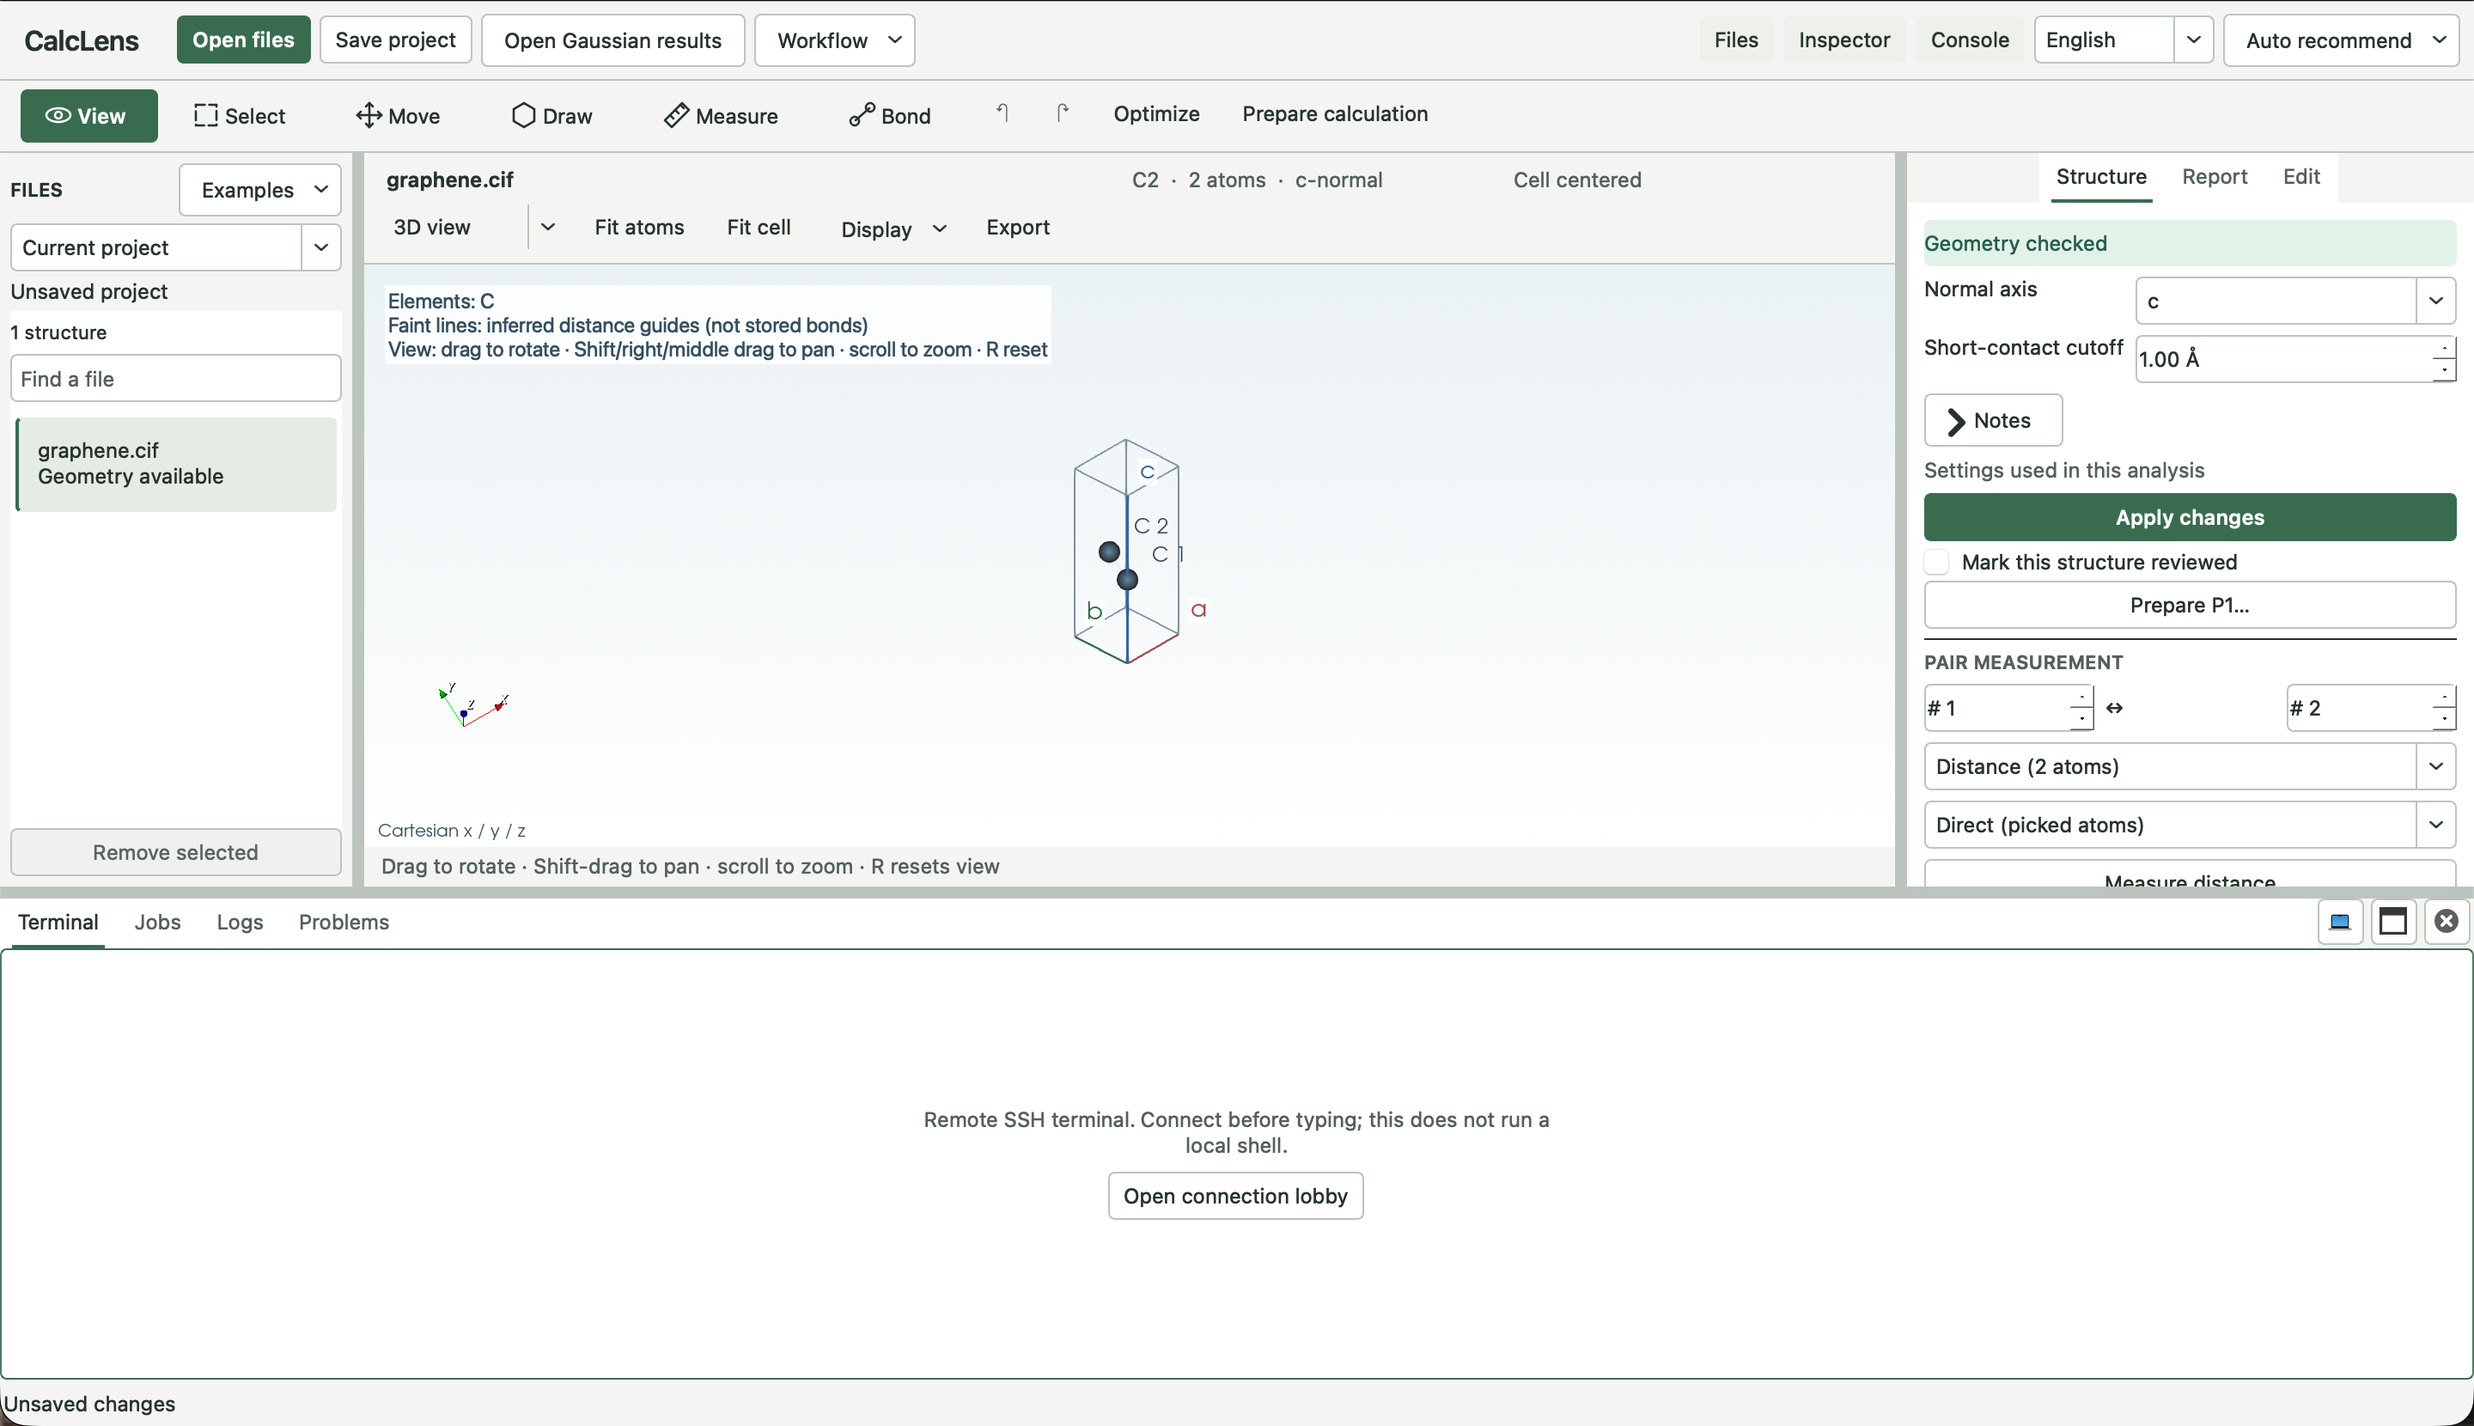
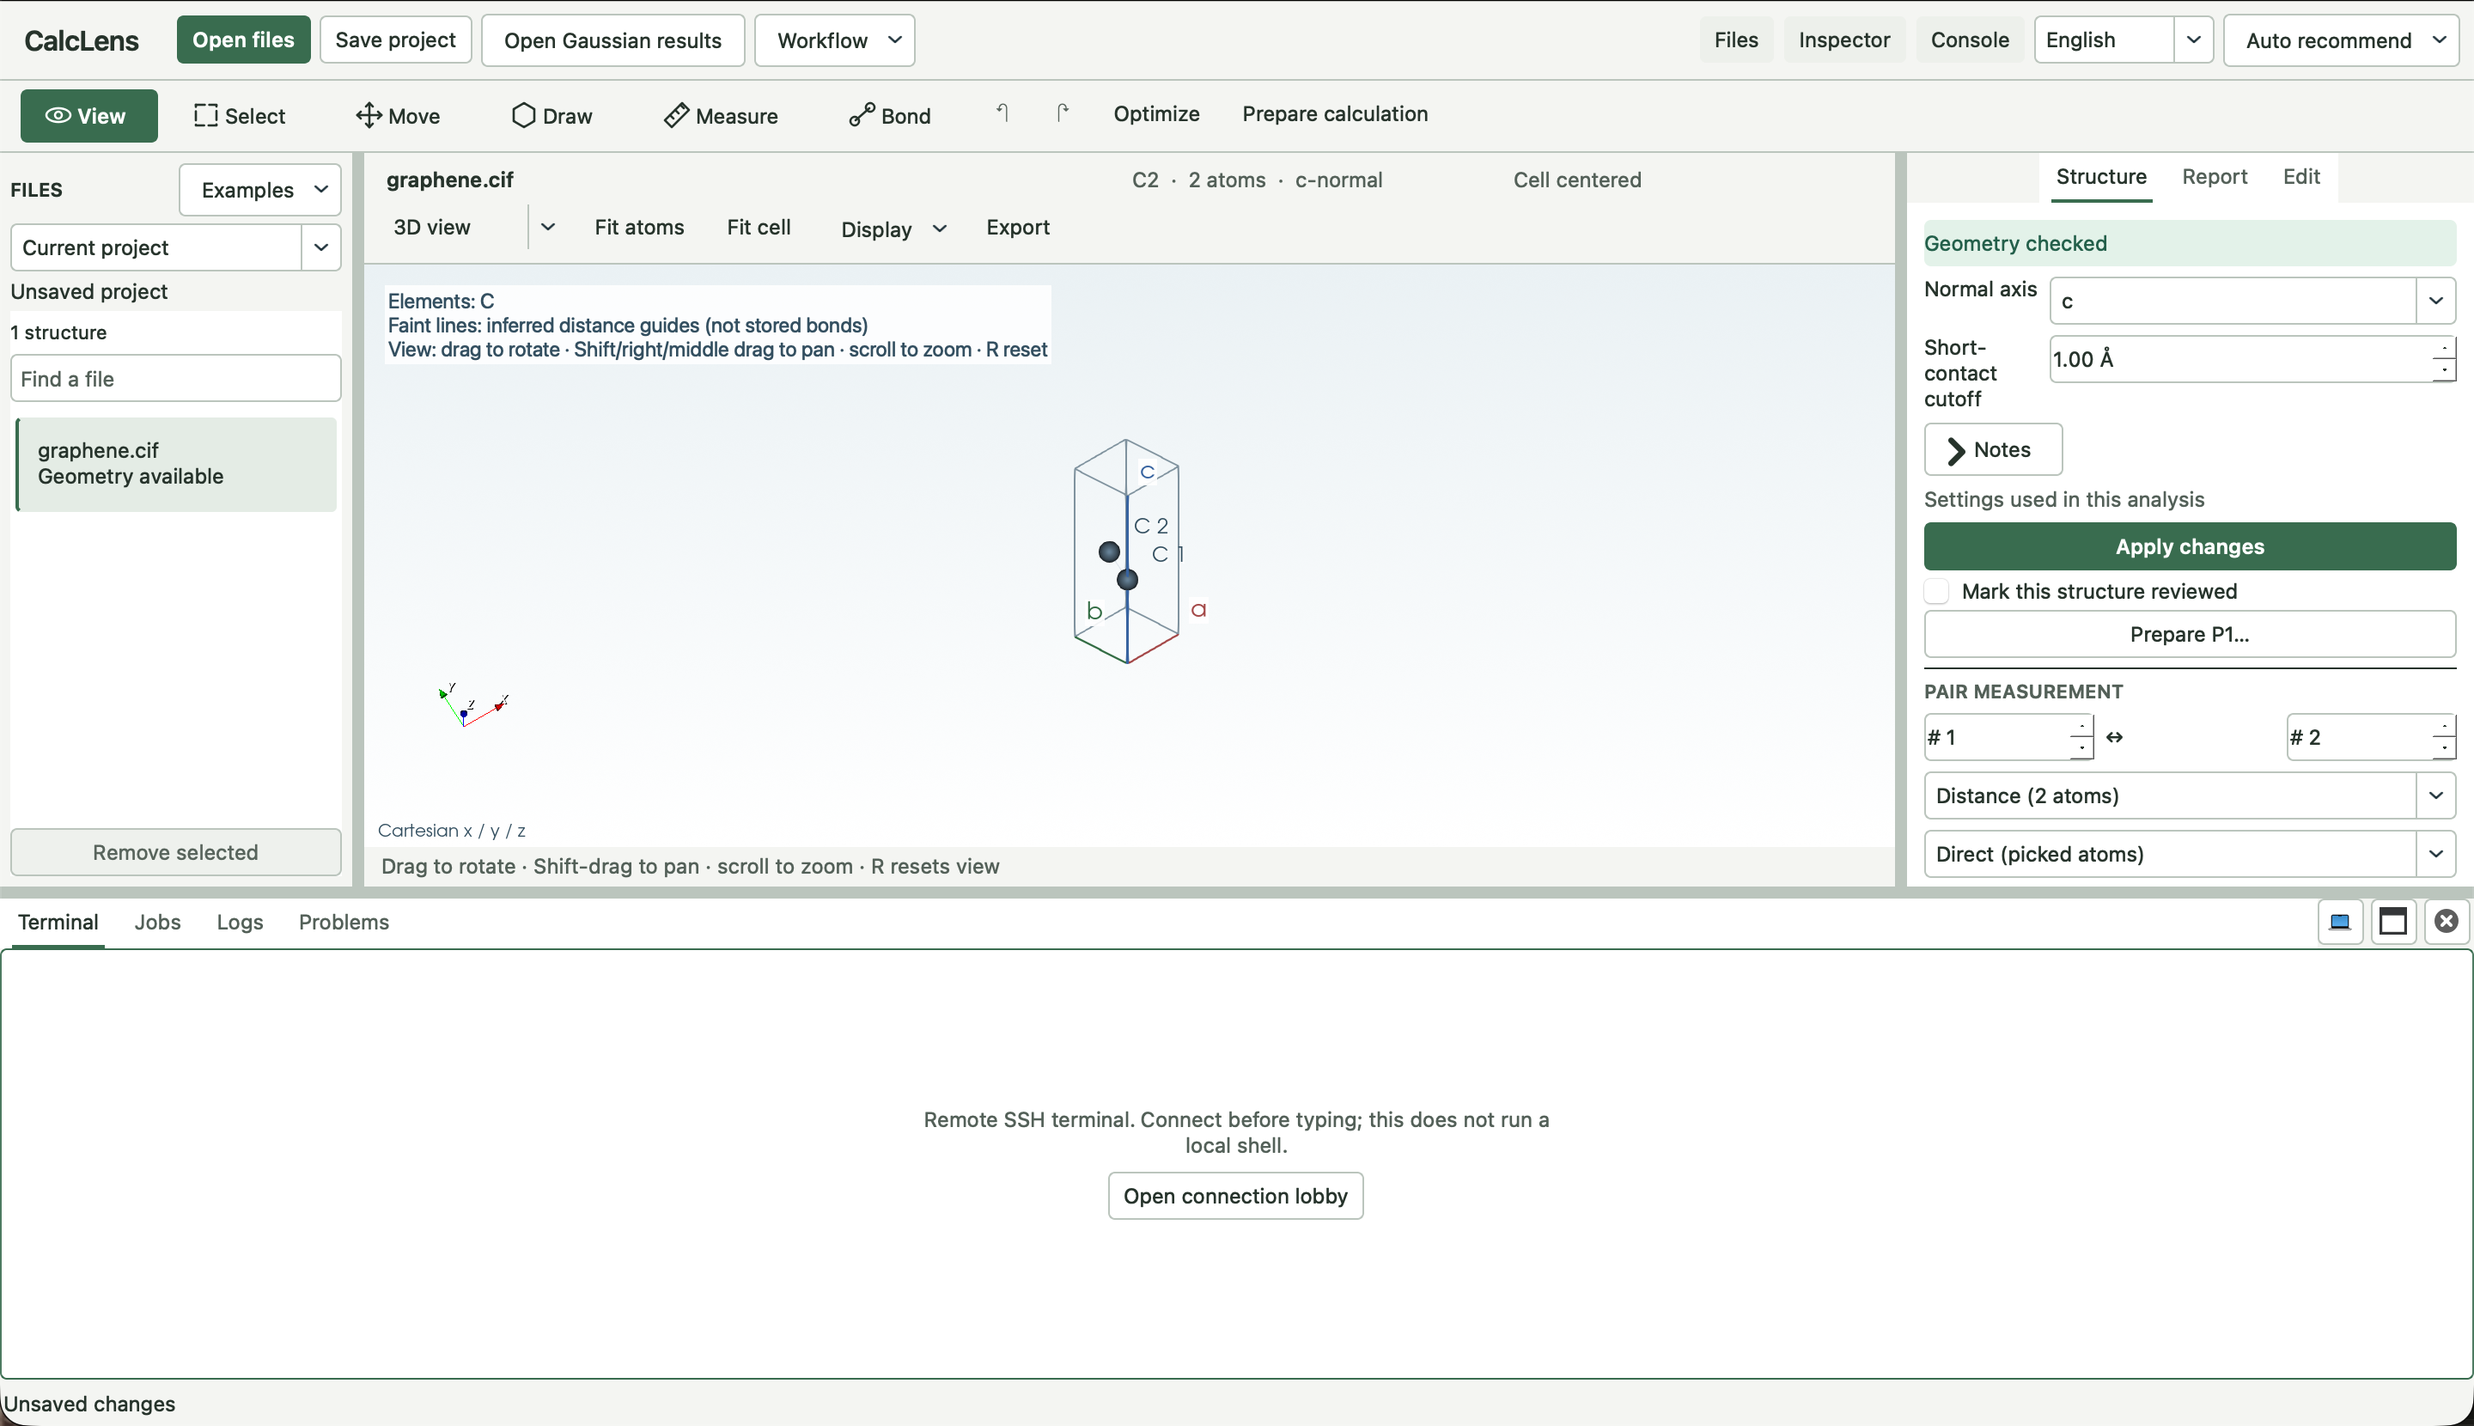
Refresh 1.3.0 screenshots from final native source

Changed region(s): [[0.7812, 0.2151, 1.0, 0.6452]]

diff --git a/guide.html b/guide.html
@@ -17,7 +17,7 @@
 <section class="section workspace-review" id="workspace-1-3-0">
 <div class="section-head"><h2>macOS 1.3.0<br>콘솔·파일·결과를 이어서</h2><div><p>구조를 보던 창에서 콘솔 크기와 파일 위치를 바꾸고, 서버 연결 상태와 Gaussian 결과를 확인합니다. 기존 구조·문서·계산 초안과 세션은 같은 작업공간에 유지합니다.</p><p>파일 위치나 서버 프로필을 고르는 것만으로 셸을 연결하거나 계산을 제출하지 않습니다. 연결·해제와 작업 실행은 각각의 명시적인 동작을 사용합니다.</p></div></div>
 <div class="capabilities"><article class="capability"><span class="capability-platform">macOS 1.3.0</span><h3>끌어서 조절하는 콘솔</h3><p>콘솔 위의 7 px 경계선으로 높이를 바꾸고 최대화·복원·접기를 실행합니다. 원래 패널 크기와 구조 시점, 로그와 SSH 세션을 유지합니다. 직접 조절한 콘솔은 창이 낮아져도 그 상태를 이어갑니다.</p></article><article class="capability"><span class="capability-platform">macOS 1.3.0</span><h3>실제 연결 상태를 보여 주는 로비</h3><p>선택한 서버, 로그인 확인 결과와 실제 터미널 연결을 구분합니다. 연결·해제 버튼은 현재 셸 상태를 따릅니다. 서버 프로필이나 파일 위치를 고르는 것만으로 셸을 열지 않습니다.</p></article><article class="capability"><span class="capability-platform">macOS 1.3.0</span><h3>원격 터미널과 키보드 이동</h3><p>하단 터미널은 원격 SSH용이며 로컬 셸을 실행하지 않습니다. 빈 화면에서 연결 로비를 열 수 있고, 연결하지 않았을 때는 Tab으로 다른 컨트롤로 이동합니다. 연결이 끝난 뒤에도 남은 출력은 복사할 수 있습니다.</p></article><article class="capability"><span class="capability-platform">macOS 1.3.0</span><h3>하나의 파일 위치 선택기</h3><p>현재 프로젝트·로컬 폴더·서버 파일을 한 곳에서 전환합니다. 파일 모델과 선택 상태를 유지하며 예제와 보조 동작은 헤더 메뉴에 모았습니다. 낮은 패널에서는 내용을 스크롤해 아래쪽 동작까지 접근합니다.</p></article><article class="capability"><span class="capability-platform">macOS 1.3.0</span><h3>원자 맞춤과 셀 전체 맞춤</h3><p>원자 맞춤은 원자를 중심으로, 셀 전체 맞춤은 진공을 포함한 격자와 원자를 표시합니다. 두 동작은 현재 방향을 유지하고 옆의 문구가 현재 맞춤 중심을 알려 줍니다. R과 방향 프리셋은 방향을 초기화합니다. 좁은 헤더는 줄을 바꾸고 긴 파일명·상태는 전체 툴팁을 유지합니다.</p></article><article class="capability"><span class="capability-platform">macOS 1.3.0</span><h3>Gaussian 결과와 원본 발췌</h3><p>Gaussian 결과 열기 또는 Command+Shift+G로 .log/.out을 엽니다. 선택한 계산 단계의 원본에 기록된 상태·에너지·수렴·진동수를 요약하고 발췌를 펼쳐 확인합니다. 원본 행으로 이동하는 표와 내보내기는 유지하며, 기록되지 않은 값과 빈 필터 결과를 구분합니다.</p></article></div>
-<figure class="product-shot"><a class="screen-link" href="assets/calclens-gaussian-results-1.3.0.png" aria-label="Gaussian 결과 화면 원본 크기로 보기"><img src="assets/calclens-gaussian-results-1.3.0.png" width="2440" height="1560" alt="CalcLens macOS 1.3.0의 영어 Cocoa 결과 화면. Gaussian 형식 검증용 로그의 두 번째 작업 요약과 행 번호가 있는 원본 발췌를 함께 표시합니다." loading="lazy"></a><figcaption><span>macOS 1.3.0 · Gaussian 형식 검증용 예제·작업 2 · 영어 UI · 실제 Cocoa 화면</span><a href="assets/calclens-gaussian-results-1.3.0.png">원본 크기로 보기 <span aria-hidden="true">↗</span></a></figcaption><p class="fine">선택한 작업의 요약과 원본 행 연결을 확인하기 위한 예제 데이터입니다. 실제 과학 계산의 결과를 뜻하지 않습니다.</p></figure>
+<figure class="product-shot"><a class="screen-link" href="assets/calclens-gaussian-results-1.3.0.png" aria-label="Gaussian 결과 화면 원본 크기로 보기"><img src="assets/calclens-gaussian-results-1.3.0.png" width="2440" height="1560" alt="CalcLens macOS 1.3.0의 한국어·어두운 테마 Cocoa 결과 화면. Gaussian 형식 검증용 로그의 두 번째 작업 요약과 행 번호가 있는 원본 발췌를 함께 표시합니다." loading="lazy"></a><figcaption><span>macOS 1.3.0 · Gaussian 형식 검증용 예제·작업 2 · 한국어·어두운 테마 · 실제 Cocoa 화면</span><a href="assets/calclens-gaussian-results-1.3.0.png">원본 크기로 보기 <span aria-hidden="true">↗</span></a></figcaption><p class="fine">선택한 작업의 요약과 원본 행 연결을 확인하기 위한 예제 데이터입니다. 실제 과학 계산의 결과를 뜻하지 않습니다.</p></figure>
 <p class="feature-note">.log/.out은 계산 결과, .gjf/.com은 계산 입력입니다. FCHK·Cube는 전자구조 분석에서 열며 일반 파일 열기로 원자 좌표를 편집기에 가져올 수도 있습니다. 원본에 없는 값을 0으로 해석하지 마세요. 정상 종료는 안정성이나 최적화 수렴을 보장하지 않습니다.</p>
 <div class="text-links"><a href="https://github.com/a123qsd/calclens-showcase/releases/download/v1.3.0/CalcLens-1.3.0-Guide.ko.md">1.3.0 Mac 사용 안내</a><a href="https://github.com/a123qsd/calclens-showcase/releases/download/v1.3.0/CalcLens-1.3.0-Release-notes.ko.md">변경 사항</a><a href="https://github.com/a123qsd/calclens-showcase/releases/download/v1.3.0/release-verification.json">완료된 배포 검증 기록</a></div>
 </section>

diff --git a/guide-en.html b/guide-en.html
@@ -17,7 +17,7 @@
 <section class="section workspace-review" id="workspace-1-3-0">
 <div class="section-head"><h2>macOS 1.3.0<br>Console, files and results</h2><div><p>Resize the console, change file locations and inspect connection states or Gaussian results alongside the structure. Existing documents, calculation drafts and sessions remain in the same workspace.</p><p>Choosing a file location does not connect a shell or submit a research-server job. Connection, disconnection and job execution each use their explicit actions.</p></div></div>
 <div class="capabilities"><article class="capability"><span class="capability-platform">macOS 1.3.0</span><h3>Resize the console directly</h3><p>Drag the 7 px divider, or maximize, restore and hide the console. The normal panel size, structure camera, logs and SSH session are retained. A console explicitly resized by the user keeps that state when the window becomes shorter.</p></article><article class="capability"><span class="capability-platform">macOS 1.3.0</span><h3>A lobby with actual connection states</h3><p>The selected server, a checked login and an active terminal connection are distinct. Connect and Disconnect follow the current shell state. Choosing a server profile or file location does not open a shell.</p></article><article class="capability"><span class="capability-platform">macOS 1.3.0</span><h3>Remote terminal and keyboard focus</h3><p>The bottom terminal is for remote SSH and does not run a local shell. Its empty state opens the connection lobby. Tab moves to other controls while disconnected, and closed-session output remains copyable.</p></article><article class="capability"><span class="capability-platform">macOS 1.3.0</span><h3>One file-location selector</h3><p>Switch between the current project, a local folder and server files while retaining their models and selections. Header menus hold examples and secondary actions. Short panels scroll to keep lower actions reachable.</p></article><article class="capability"><span class="capability-platform">macOS 1.3.0</span><h3>Fit atoms or the whole cell</h3><p>Fit atoms centers the atoms; Fit cell includes the lattice, vacuum and atoms. Both preserve view direction, and a label identifies the current fitting target. R and direction presets reset orientation. Narrow headers wrap, while elided filenames and status text retain full tooltips.</p></article><article class="capability"><span class="capability-platform">macOS 1.3.0</span><h3>Gaussian results and source excerpts</h3><p>Open Gaussian results or use Command+Shift+G for .log/.out files. Inspect the selected job step's reported status, energy, convergence and frequencies, then expand the source excerpt. Source-row tables and exports remain available. Missing quantities and empty filters have distinct guidance.</p></article></div>
-<figure class="product-shot"><a class="screen-link" href="assets/calclens-gaussian-results-1.3.0.png" aria-label="View the Gaussian results capture at full size"><img src="assets/calclens-gaussian-results-1.3.0.png" width="2440" height="1560" alt="The actual CalcLens macOS 1.3.0 Cocoa results screen, showing the selected second job from a Gaussian-format validation fixture alongside numbered source excerpts." loading="lazy"></a><figcaption><span>macOS 1.3.0 · Gaussian parser fixture, job 2 · English UI · Native Cocoa capture</span><a href="assets/calclens-gaussian-results-1.3.0.png">View at full size <span aria-hidden="true">↗</span></a></figcaption><p class="fine">The example data checks selected-job summaries and source-row correspondence. It is not a scientific calculation result.</p></figure>
+<figure class="product-shot"><a class="screen-link" href="assets/calclens-gaussian-results-1.3.0.png" aria-label="View the Gaussian results capture at full size"><img src="assets/calclens-gaussian-results-1.3.0.png" width="2440" height="1560" alt="The actual CalcLens macOS 1.3.0 Cocoa results screen in the Korean dark theme, showing the selected second job from a Gaussian-format validation fixture alongside numbered source excerpts." loading="lazy"></a><figcaption><span>macOS 1.3.0 · Gaussian parser fixture, job 2 · Korean dark theme · Native Cocoa capture</span><a href="assets/calclens-gaussian-results-1.3.0.png">View at full size <span aria-hidden="true">↗</span></a></figcaption><p class="fine">The example data checks selected-job summaries and source-row correspondence. It is not a scientific calculation result.</p></figure>
 <p class="feature-note">.log/.out files are calculation results; .gjf/.com are calculation inputs. FCHK/Cube open in electronic analysis, and general Open files can also import their atomic geometry into the editor. Unreported values are unknown, not zero. Normal termination does not establish stability or optimization convergence.</p>
 <div class="text-links"><a href="https://github.com/a123qsd/calclens-showcase/releases/download/v1.3.0/CalcLens-1.3.0-Guide.ko.md">1.3.0 Mac guide (Korean)</a><a href="https://github.com/a123qsd/calclens-showcase/releases/download/v1.3.0/CalcLens-1.3.0-Release-notes.en.md">Release notes</a><a href="https://github.com/a123qsd/calclens-showcase/releases/download/v1.3.0/release-verification.json">Completed release verification</a></div>
 </section>

diff --git a/README.md b/README.md
@@ -2,7 +2,7 @@
 
 macOS 1.3.0 refines console resizing, connection states, file navigation and Gaussian result access. A 7 px divider and Maximize/Restore/Hide controls retain the existing console, camera and SSH session. A single file-location selector replaces competing source tabs; Fit atoms and Fit cell show the current fitting target. Gaussian results open from the explicit action or Command+Shift+G, with summaries from the selected parsed job and expandable source excerpts. Windows remains at 0.17.1, and the application development repository remains private.
 
-The bilingual site uses unchanged native Cocoa captures of the final 1.3.0 validation source: a Korean atom-fit workspace, an English whole-cell workspace and an explicitly labeled Gaussian parser fixture with its selected-job source excerpt.
+The bilingual site uses unchanged native Cocoa captures of the final 1.3.0 validation source: a Korean atom-fit workspace, an English whole-cell workspace and an explicitly labeled Korean Gaussian parser fixture with its selected-job source excerpt.
 
 The connection lobby distinguishes a selected server, a checked login and an active shell. The remote terminal has no local-shell fallback; Tab leaves it normally while disconnected. Gaussian summaries preserve reported values and missing-data states. These interface changes do not claim a calculation-engine or FPS improvement. The app retains ad-hoc signing and is not Apple-notarized. Completed package checks and hashes belong to the release verification record.
 
